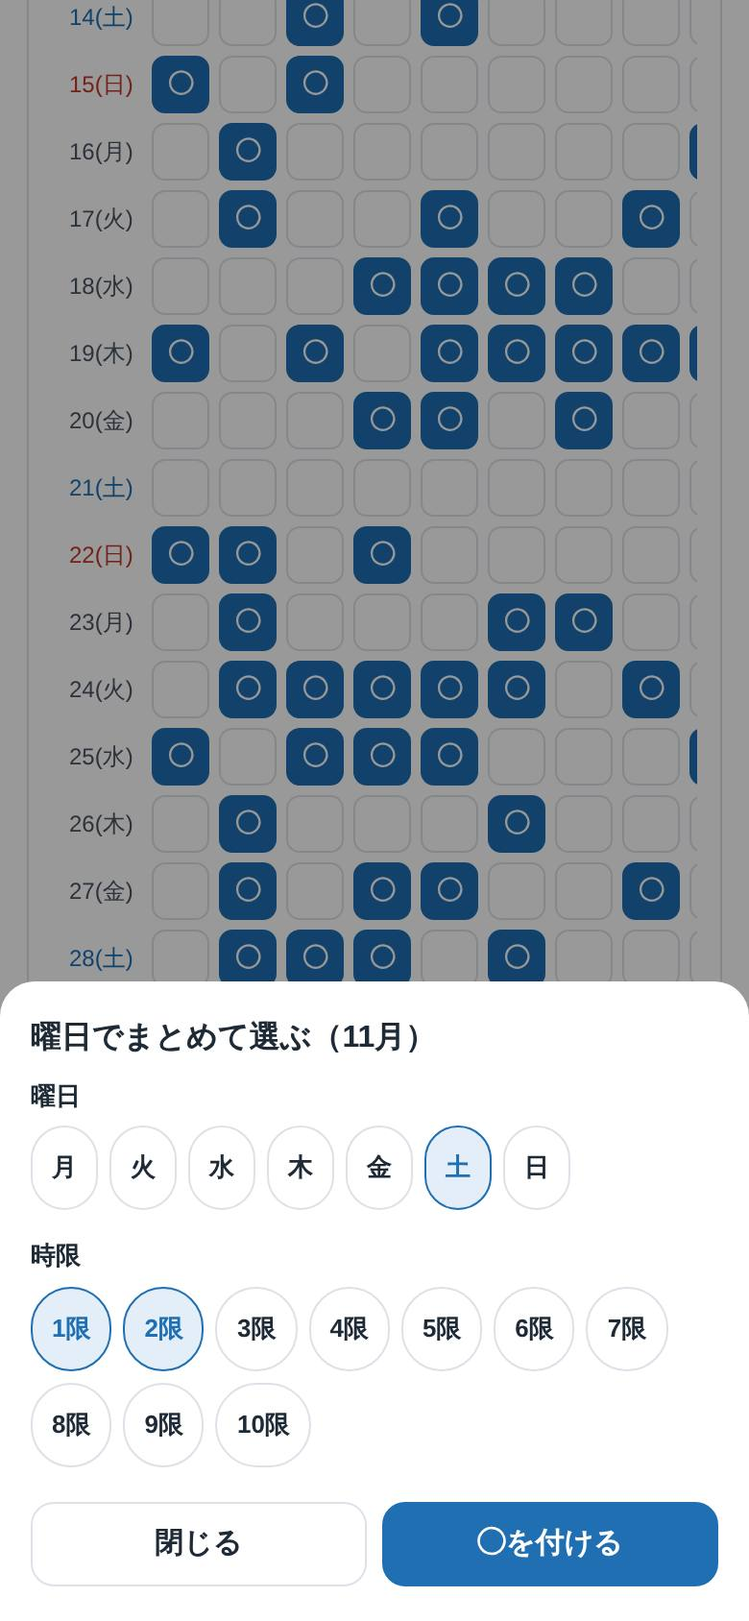
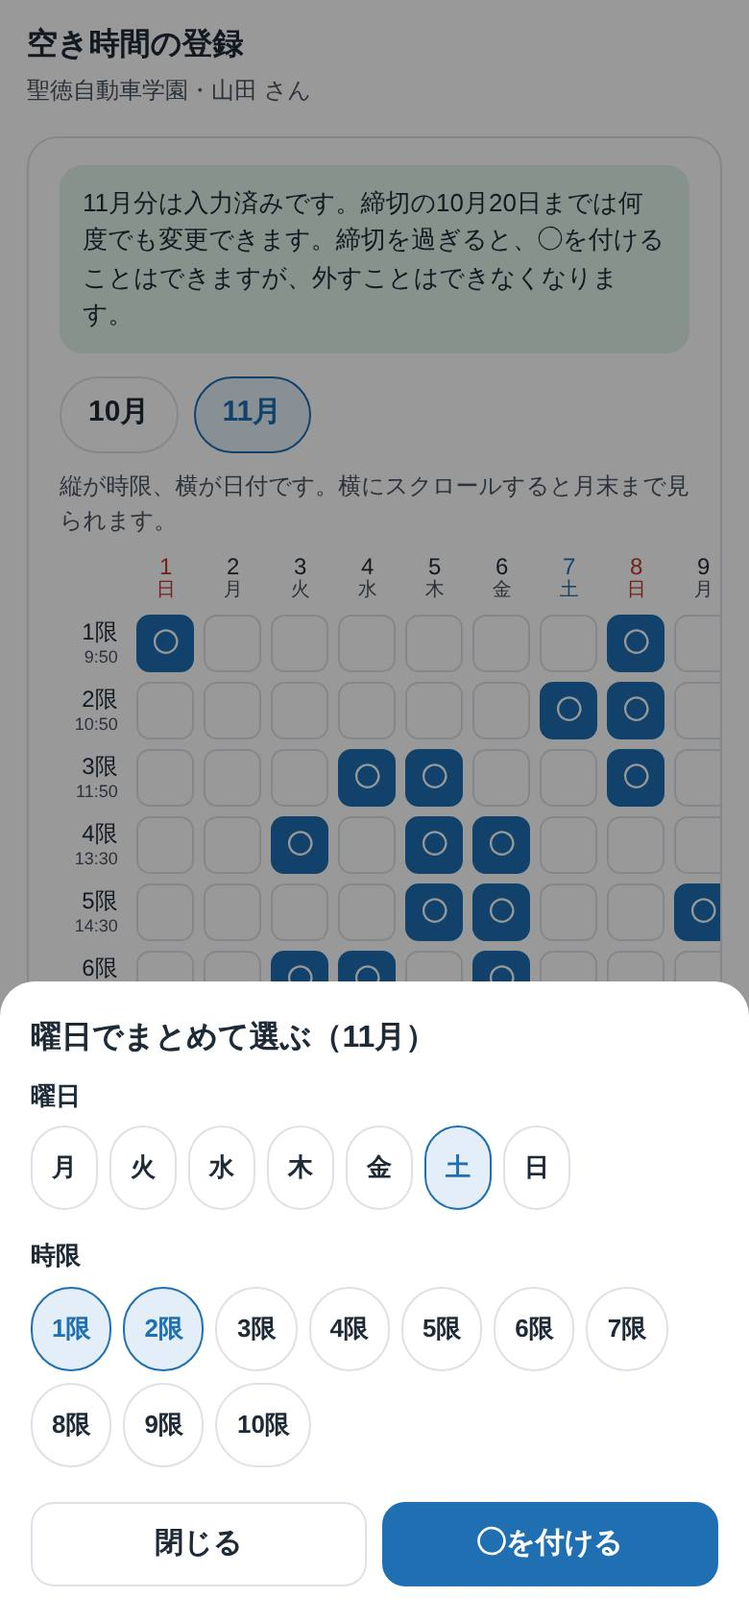
教習生の空き時間の表を縦=時限・横=日付に変更（横スクロール、時限列を固定）、使い方を撮り直し
Claude-Session: https://claude.ai/code/session_01TFEssVs3Y3zAmrgZUn2J4X

diff --git a/guide-student.html b/guide-student.html
@@ -49,5 +49,5 @@ footer{margin-top:28px;font-size:13px;color:var(--muted)}
 @media print{body{background:#fff}.phone{box-shadow:none}section.step{break-inside:avoid-page}nav.toc{display:none}}
 </style>
 <div class="wrap"><p style="margin:0 0 12px"><a href="javascript:history.back()" style="color:var(--blue);font-weight:700;text-decoration:none">← 前の画面に戻る</a></p><header class="cover"><div class="eyebrow">聖徳自動車学園　空き時間の登録</div><h1>スマホで空き時間を登録する方法</h1><p class="lead">これまで紙で提出していた「予約を入れてよい時間帯」を、スマホで登録します。予約が決まるとスマホに通知が届きます。ログインはいりません。学園で受け取ったQRコードを読み取るだけで、あなた専用の画面が開きます。</p><nav class="toc" aria-label="目次"><a href="#s1">最初にやること</a><a href="#s2">通知をオンにする</a><a href="#s3">空き時間を登録する</a><a href="#s4">予約を確認する</a><a href="#s5">予約をキャンセルしたい時</a><a href="#s6">検定の日</a><a href="#faq">困った時</a></nav></header>
-<section class="step" id="s1"><h2><span class="no">1</span>最初にやること</h2><p>QRコードをスマホのカメラで読み取ると、あなたの画面が開きます。最初に「ホーム画面に追加」をしておくと、次からはアイコンを押すだけで開けます。</p><div class="fig"><div class="phone"><img src="guide/s_install.jpg" alt="画面の例（ホーム画面に追加する手順、あとで）"><div class="mk" style="left:3.3%;top:73.74%;width:93.4%;height:12.74%"><b>1</b></div><div class="mk" style="left:3.3%;top:92.19%;width:93.4%;height:6.07%"><b>2</b></div></div><ol class="notes"><li><b>1</b><div><strong>ホーム画面に追加する手順</strong><span>iPhoneは、Safariの画面下の共有ボタン →「ホーム画面に追加」→「追加」の順に押します。Androidは「ホーム画面に追加する」ボタンが出るので、それを押します。</span></div></li><li><b>2</b><div><strong>あとで</strong><span>あとから追加する時は、画面の下の「設定」にある「ホーム画面に追加」を押すと、この案内がもう一度出ます。</span></div></li></ol></div><div class="tip"><b>QRコードは自分だけのものです</b>QRコードを読み取ると、あなたの画面が開きます。他の人に見せたり、写真を送ったりしないでください。</div></section><section class="step" id="s2"><h2><span class="no">2</span>通知をオンにする</h2><p>予約が決まった時や変更があった時に、スマホに通知が届くようにします。画面の下の「設定」を開いて、「通知の設定」を押してください。</p><div class="fig"><div class="phone"><img src="guide/s_set.jpg" alt="画面の例（画面の明るさ・文字の大きさ、通知・アプリ）"><div class="mk" style="left:7.1%;top:11.15%;width:85.7%;height:15.85%"><b>1</b></div><div class="mk" style="left:7.1%;top:40.65%;width:85.7%;height:25.03%"><b>2</b></div></div><ol class="notes"><li><b>1</b><div><strong>画面の明るさ・文字の大きさ</strong><span>ライト（白い背景）とダーク（黒い背景）、文字の大きさを選べます。</span></div></li><li><b>2</b><div><strong>通知・アプリ</strong><span>「通知の設定」で通知をオンにします。「ホーム画面に追加」もここからできます。</span></div></li></ol></div><div class="fig"><div class="phone"><img src="guide/s_push.jpg" alt="画面の例（iPhoneの方へ、通知を受け取る）"><div class="mk" style="left:3.3%;top:75.25%;width:93.4%;height:10.10%"><b>1</b></div><div class="mk" style="left:3.3%;top:85.97%;width:93.4%;height:6.07%"><b>2</b></div></div><ol class="notes"><li><b>1</b><div><strong>iPhoneの方へ</strong><span>iPhoneは、ホーム画面に追加したアイコンから開いた時だけ通知を受け取れます。先に「1 最初にやること」を済ませてください。</span></div></li><li><b>2</b><div><strong>通知を受け取る</strong><span>押すと「通知を許可しますか？」と聞かれるので、「許可」を選びます。</span></div></li></ol></div></section><section class="step" id="s3"><h2><span class="no">3</span>空き時間を登録する</h2><p>画面の下の「空き時間の登録」で、教習を受けられる時間帯に◯を付けます。タップするとすぐに保存されるので、保存ボタンはありません。</p><div class="fig"><div class="phone"><img src="guide/s_cal.jpg" alt="画面の例（締切のお知らせ、月の切り替え、マスをタップして◯を付ける、画面の切り替え）"><div class="mk" style="left:7.1%;top:9.73%;width:85.7%;height:12.41%"><b>1</b></div><div class="mk" style="left:7.1%;top:22.76%;width:85.7%;height:5.54%"><b>2</b></div><div class="mk" style="left:7.9%;top:39.83%;width:92.4%;height:4.59%"><b>3</b></div><div class="mk" style="left:-0.3%;top:92.73%;width:100.6%;height:7.17%"><b>4</b></div></div><ol class="notes"><li><b>1</b><div><strong>締切のお知らせ</strong><span>次の月の分は、毎月20日が入力の締切です。締切までは何度でも変更できます。</span></div></li><li><b>2</b><div><strong>月の切り替え</strong><span>今月と来月を切り替えます。</span></div></li><li><b>3</b><div><strong>マスをタップして◯を付ける</strong><span>横が時限（1〜10限）、縦が日付です。空いている時間帯をタップすると◯が付き、もう一度タップすると外れます。</span></div></li><li><b>4</b><div><strong>画面の切り替え</strong><span>画面の下のタブで、「空き時間の登録」「教習の進み具合」「設定」を切り替えます。いつも表示されています。</span></div></li></ol></div><div class="fig"><div class="phone part"><img src="guide/s_cal2.jpg" alt="画面の例（色の見方、今月と同じにする、曜日でまとめて選ぶ）"><div class="mk" style="left:7.1%;top:71.60%;width:85.7%;height:10.40%"><b>1</b></div><div class="mk" style="left:7.1%;top:83.20%;width:42.6%;height:14.20%"><b>2</b></div><div class="mk" style="left:50.2%;top:83.20%;width:42.6%;height:14.20%"><b>3</b></div></div><ol class="notes"><li><b>1</b><div><strong>色の見方</strong><span>青い◯は空いている時間、オレンジの「予」は予約が入った時間です。</span></div></li><li><b>2</b><div><strong>今月と同じにする</strong><span>今月の◯の付け方（曜日ごと）を、来月にそのまま写します。</span></div></li><li><b>3</b><div><strong>曜日でまとめて選ぶ</strong><span>「毎週土曜の1・2限」のように、まとめて◯を付けられます。</span></div></li></ol></div><div class="fig"><div class="phone"><img src="guide/s_bulk.jpg" alt="画面の例（曜日を選ぶ、時限を選ぶ、◯を付ける）"><div class="mk" style="left:3.3%;top:69.03%;width:93.4%;height:6.49%"><b>1</b></div><div class="mk" style="left:3.3%;top:78.92%;width:93.4%;height:12.41%"><b>2</b></div><div class="mk" style="left:50.2%;top:92.19%;width:46.5%;height:6.07%"><b>3</b></div></div><ol class="notes"><li><b>1</b><div><strong>曜日を選ぶ</strong><span>◯を付けたい曜日を選びます。いくつでも選べます。</span></div></li><li><b>2</b><div><strong>時限を選ぶ</strong><span>◯を付けたい時限を選びます。</span></div></li><li><b>3</b><div><strong>◯を付ける</strong><span>選んだ曜日と時限のマスに、まとめて◯が付きます。</span></div></li></ol></div><div class="tip warn"><b>締切（20日）を過ぎたら</b>◯を付けることはできますが、外すことはできません（指導員が予約を組んでいる途中のためです）。都合が悪くなった時は、学園に電話してください。電話番号：<span class="tel">058-387-4171</span></div></section><section class="step" id="s4"><h2><span class="no">4</span>予約を確認する</h2><p>指導員が予約を決めると通知が届きます。画面の下の「教習の進み具合」で内容を確認してください。</p><div class="fig"><div class="phone"><img src="guide/s_book.jpg" alt="画面の例（進み具合、これからの予約、確認しました）"><div class="mk" style="left:7.1%;top:9.73%;width:85.7%;height:14.60%"><b>1</b></div><div class="mk" style="left:7.1%;top:28.39%;width:85.7%;height:33.26%"><b>2</b></div><div class="mk" style="left:7.1%;top:62.28%;width:85.7%;height:6.07%"><b>3</b></div></div><ol class="notes"><li><b>1</b><div><strong>進み具合</strong><span>今の段階で受けた時限数と、最低教習時限（第1段階12時限、第2段階19時限）までのあと何時限かが分かります。</span></div></li><li><b>2</b><div><strong>これからの予約</strong><span>日付・時限・時間と、何時限目の教習かが出ます。</span></div></li><li><b>3</b><div><strong>確認しました</strong><span>予約を見たら必ず押してください。押さないと、指導員から確認の連絡が来ることがあります。</span></div></li></ol></div><div class="tip"><b>正式な予定はこの画面です</b>通知はお知らせです。予定はこの画面の表示を見てください。</div></section><section class="step" id="s5"><h2><span class="no">5</span>予約をキャンセルしたい時</h2><p>「空き時間の登録」のカレンダーで、予約が入っているマス（オレンジの「予」）を押します。</p><div class="fig"><div class="phone"><img src="guide/s_locked.jpg" alt="画面の例（予約が入っているマス）"><div class="mk" style="left:28.5%;top:28.69%;width:9.3%;height:4.35%"><b>1</b></div></div><ol class="notes"><li><b>1</b><div><strong>予約が入っているマス</strong><span>予約済みのマスは、自分では外せません。押すと次の画面が出ます。</span></div></li></ol></div><div class="fig"><div class="phone"><img src="guide/s_cancel.jpg" alt="画面の例（キャンセル希望を送る、学園に電話する）"><div class="mk" style="left:3.3%;top:79.81%;width:93.4%;height:6.07%"><b>1</b></div><div class="mk" style="left:3.3%;top:86.03%;width:93.4%;height:6.01%"><b>2</b></div></div><ol class="notes"><li><b>1</b><div><strong>キャンセル希望を送る</strong><span>指導員にキャンセルの希望が届きます。指導員が承認すると、通知でお知らせします。承認されるまでは予約のままです。</span></div></li><li><b>2</b><div><strong>学園に電話する</strong><span>急ぎの時は電話してください。電話番号：<span class="tel">058-387-4171</span></span></div></li></ol></div></section><section class="step" id="s6"><h2><span class="no">6</span>検定の日</h2><p>みきわめに合格すると、「教習の進み具合」に検定日が出ます。検定日の当日は、朝に通知が届き、画面にもお知らせが出ます。</p><div class="fig"><div class="phone part"><img src="guide/s_kentei.jpg" alt="画面の例（検定日のお知らせ）"><div class="mk" style="left:2.8%;top:20.36%;width:94.4%;height:28.68%"><b>1</b></div></div><ol class="notes"><li><b>1</b><div><strong>検定日のお知らせ</strong><span>これまでに教わった事をよく思い出して、頑張ってください。</span></div></li></ol></div></section><section class="step" id="faq"><h2><span class="no">？</span>困った時は</h2><div class="faq"><div><strong>画面が開かない・読み込み中のまま</strong><span>LINEなどのアプリの中で開くと動かないことがあります。Safari（iPhone）か Chrome（Android）で開き直してください。それでもだめな時は、スマホのOSとブラウザを最新にしてください。</span></div><div><strong>QRコードをなくした・スマホを替えた</strong><span>担当の指導員に伝えてください。新しいQRコードを出してもらえます。登録した空き時間や予約はそのまま残ります。</span></div><div><strong>通知が来ない</strong><span>画面の下の「設定」→「通知の設定」で「通知を受け取る」を押したか確認してください。iPhoneはホーム画面のアイコンから開いて設定する必要があります。</span></div><div><strong>◯を外したいのに外せない</strong><span>締切（毎月20日）を過ぎると外せません。学園に電話してください。<span class="tel">058-387-4171</span></span></div></div></section>
+<section class="step" id="s1"><h2><span class="no">1</span>最初にやること</h2><p>QRコードをスマホのカメラで読み取ると、あなたの画面が開きます。最初に「ホーム画面に追加」をしておくと、次からはアイコンを押すだけで開けます。</p><div class="fig"><div class="phone"><img src="guide/s_install.jpg" alt="画面の例（ホーム画面に追加する手順、あとで）"><div class="mk" style="left:3.3%;top:73.74%;width:93.4%;height:12.74%"><b>1</b></div><div class="mk" style="left:3.3%;top:92.19%;width:93.4%;height:6.07%"><b>2</b></div></div><ol class="notes"><li><b>1</b><div><strong>ホーム画面に追加する手順</strong><span>iPhoneは、Safariの画面下の共有ボタン →「ホーム画面に追加」→「追加」の順に押します。Androidは「ホーム画面に追加する」ボタンが出るので、それを押します。</span></div></li><li><b>2</b><div><strong>あとで</strong><span>あとから追加する時は、画面の下の「設定」にある「ホーム画面に追加」を押すと、この案内がもう一度出ます。</span></div></li></ol></div><div class="tip"><b>QRコードは自分だけのものです</b>QRコードを読み取ると、あなたの画面が開きます。他の人に見せたり、写真を送ったりしないでください。</div></section><section class="step" id="s2"><h2><span class="no">2</span>通知をオンにする</h2><p>予約が決まった時や変更があった時に、スマホに通知が届くようにします。画面の下の「設定」を開いて、「通知の設定」を押してください。</p><div class="fig"><div class="phone"><img src="guide/s_set.jpg" alt="画面の例（画面の明るさ・文字の大きさ、通知・アプリ）"><div class="mk" style="left:7.1%;top:11.15%;width:85.7%;height:15.85%"><b>1</b></div><div class="mk" style="left:7.1%;top:40.65%;width:85.7%;height:25.03%"><b>2</b></div></div><ol class="notes"><li><b>1</b><div><strong>画面の明るさ・文字の大きさ</strong><span>ライト（白い背景）とダーク（黒い背景）、文字の大きさを選べます。</span></div></li><li><b>2</b><div><strong>通知・アプリ</strong><span>「通知の設定」で通知をオンにします。「ホーム画面に追加」もここからできます。</span></div></li></ol></div><div class="fig"><div class="phone"><img src="guide/s_push.jpg" alt="画面の例（iPhoneの方へ、通知を受け取る）"><div class="mk" style="left:3.3%;top:75.25%;width:93.4%;height:10.10%"><b>1</b></div><div class="mk" style="left:3.3%;top:85.97%;width:93.4%;height:6.07%"><b>2</b></div></div><ol class="notes"><li><b>1</b><div><strong>iPhoneの方へ</strong><span>iPhoneは、ホーム画面に追加したアイコンから開いた時だけ通知を受け取れます。先に「1 最初にやること」を済ませてください。</span></div></li><li><b>2</b><div><strong>通知を受け取る</strong><span>押すと「通知を許可しますか？」と聞かれるので、「許可」を選びます。</span></div></li></ol></div></section><section class="step" id="s3"><h2><span class="no">3</span>空き時間を登録する</h2><p>画面の下の「空き時間の登録」で、教習を受けられる時間帯に◯を付けます。タップするとすぐに保存されるので、保存ボタンはありません。</p><div class="fig"><div class="phone"><img src="guide/s_cal.jpg" alt="画面の例（締切のお知らせ、月の切り替え、マスをタップして◯を付ける、画面の切り替え）"><div class="mk" style="left:7.1%;top:9.73%;width:85.7%;height:12.41%"><b>1</b></div><div class="mk" style="left:7.1%;top:22.76%;width:85.7%;height:5.54%"><b>2</b></div><div class="mk" style="left:7.9%;top:45.67%;width:92.4%;height:4.59%"><b>3</b></div><div class="mk" style="left:-0.3%;top:92.73%;width:100.6%;height:7.17%"><b>4</b></div></div><ol class="notes"><li><b>1</b><div><strong>締切のお知らせ</strong><span>次の月の分は、毎月20日が入力の締切です。締切までは何度でも変更できます。</span></div></li><li><b>2</b><div><strong>月の切り替え</strong><span>今月と来月を切り替えます。</span></div></li><li><b>3</b><div><strong>マスをタップして◯を付ける</strong><span>縦が時限（1〜10限）、横が日付です。横にスクロールすると月末まで見られます。空いている時間帯をタップすると◯が付き、もう一度タップすると外れます。</span></div></li><li><b>4</b><div><strong>画面の切り替え</strong><span>画面の下のタブで、「空き時間の登録」「教習の進み具合」「設定」を切り替えます。いつも表示されています。</span></div></li></ol></div><div class="fig"><div class="phone part"><img src="guide/s_cal2.jpg" alt="画面の例（色の見方、今月と同じにする、曜日でまとめて選ぶ）"><div class="mk" style="left:7.1%;top:71.60%;width:85.7%;height:10.40%"><b>1</b></div><div class="mk" style="left:7.1%;top:83.20%;width:42.6%;height:14.20%"><b>2</b></div><div class="mk" style="left:50.2%;top:83.20%;width:42.6%;height:14.20%"><b>3</b></div></div><ol class="notes"><li><b>1</b><div><strong>色の見方</strong><span>青い◯は空いている時間、オレンジの「予」は予約が入った時間です。</span></div></li><li><b>2</b><div><strong>今月と同じにする</strong><span>今月の◯の付け方（曜日ごと）を、来月にそのまま写します。</span></div></li><li><b>3</b><div><strong>曜日でまとめて選ぶ</strong><span>「毎週土曜の1・2限」のように、まとめて◯を付けられます。</span></div></li></ol></div><div class="fig"><div class="phone"><img src="guide/s_bulk.jpg" alt="画面の例（曜日を選ぶ、時限を選ぶ、◯を付ける）"><div class="mk" style="left:3.3%;top:69.03%;width:93.4%;height:6.49%"><b>1</b></div><div class="mk" style="left:3.3%;top:78.92%;width:93.4%;height:12.41%"><b>2</b></div><div class="mk" style="left:50.2%;top:92.19%;width:46.5%;height:6.07%"><b>3</b></div></div><ol class="notes"><li><b>1</b><div><strong>曜日を選ぶ</strong><span>◯を付けたい曜日を選びます。いくつでも選べます。</span></div></li><li><b>2</b><div><strong>時限を選ぶ</strong><span>◯を付けたい時限を選びます。</span></div></li><li><b>3</b><div><strong>◯を付ける</strong><span>選んだ曜日と時限のマスに、まとめて◯が付きます。</span></div></li></ol></div><div class="tip warn"><b>締切（20日）を過ぎたら</b>◯を付けることはできますが、外すことはできません（指導員が予約を組んでいる途中のためです）。都合が悪くなった時は、学園に電話してください。電話番号：<span class="tel">058-387-4171</span></div></section><section class="step" id="s4"><h2><span class="no">4</span>予約を確認する</h2><p>指導員が予約を決めると通知が届きます。画面の下の「教習の進み具合」で内容を確認してください。</p><div class="fig"><div class="phone"><img src="guide/s_book.jpg" alt="画面の例（進み具合、これからの予約、確認しました）"><div class="mk" style="left:7.1%;top:9.73%;width:85.7%;height:14.60%"><b>1</b></div><div class="mk" style="left:7.1%;top:28.39%;width:85.7%;height:33.26%"><b>2</b></div><div class="mk" style="left:7.1%;top:62.28%;width:85.7%;height:6.07%"><b>3</b></div></div><ol class="notes"><li><b>1</b><div><strong>進み具合</strong><span>今の段階で受けた時限数と、最低教習時限（第1段階12時限、第2段階19時限）までのあと何時限かが分かります。</span></div></li><li><b>2</b><div><strong>これからの予約</strong><span>日付・時限・時間と、何時限目の教習かが出ます。</span></div></li><li><b>3</b><div><strong>確認しました</strong><span>予約を見たら必ず押してください。押さないと、指導員から確認の連絡が来ることがあります。</span></div></li></ol></div><div class="tip"><b>正式な予定はこの画面です</b>通知はお知らせです。予定はこの画面の表示を見てください。</div></section><section class="step" id="s5"><h2><span class="no">5</span>予約をキャンセルしたい時</h2><p>「空き時間の登録」のカレンダーで、予約が入っているマス（オレンジの「予」）を押します。</p><div class="fig"><div class="phone"><img src="guide/s_locked.jpg" alt="画面の例（予約が入っているマス）"><div class="mk" style="left:45.4%;top:27.42%;width:9.3%;height:4.35%"><b>1</b></div></div><ol class="notes"><li><b>1</b><div><strong>予約が入っているマス</strong><span>予約済みのマスは、自分では外せません。押すと次の画面が出ます。</span></div></li></ol></div><div class="fig"><div class="phone"><img src="guide/s_cancel.jpg" alt="画面の例（キャンセル希望を送る、学園に電話する）"><div class="mk" style="left:3.3%;top:79.81%;width:93.4%;height:6.07%"><b>1</b></div><div class="mk" style="left:3.3%;top:86.03%;width:93.4%;height:6.01%"><b>2</b></div></div><ol class="notes"><li><b>1</b><div><strong>キャンセル希望を送る</strong><span>指導員にキャンセルの希望が届きます。指導員が承認すると、通知でお知らせします。承認されるまでは予約のままです。</span></div></li><li><b>2</b><div><strong>学園に電話する</strong><span>急ぎの時は電話してください。電話番号：<span class="tel">058-387-4171</span></span></div></li></ol></div></section><section class="step" id="s6"><h2><span class="no">6</span>検定の日</h2><p>みきわめに合格すると、「教習の進み具合」に検定日が出ます。検定日の当日は、朝に通知が届き、画面にもお知らせが出ます。</p><div class="fig"><div class="phone part"><img src="guide/s_kentei.jpg" alt="画面の例（検定日のお知らせ）"><div class="mk" style="left:2.8%;top:20.36%;width:94.4%;height:28.68%"><b>1</b></div></div><ol class="notes"><li><b>1</b><div><strong>検定日のお知らせ</strong><span>これまでに教わった事をよく思い出して、頑張ってください。</span></div></li></ol></div></section><section class="step" id="faq"><h2><span class="no">？</span>困った時は</h2><div class="faq"><div><strong>画面が開かない・読み込み中のまま</strong><span>LINEなどのアプリの中で開くと動かないことがあります。Safari（iPhone）か Chrome（Android）で開き直してください。それでもだめな時は、スマホのOSとブラウザを最新にしてください。</span></div><div><strong>QRコードをなくした・スマホを替えた</strong><span>担当の指導員に伝えてください。新しいQRコードを出してもらえます。登録した空き時間や予約はそのまま残ります。</span></div><div><strong>通知が来ない</strong><span>画面の下の「設定」→「通知の設定」で「通知を受け取る」を押したか確認してください。iPhoneはホーム画面のアイコンから開いて設定する必要があります。</span></div><div><strong>◯を外したいのに外せない</strong><span>締切（毎月20日）を過ぎると外せません。学園に電話してください。<span class="tel">058-387-4171</span></span></div></div></section>
 <footer>画面の名前や日付は説明用の見本です。分からないことは担当の指導員か、学園の事務所に聞いてください。</footer></div>

diff --git a/js/student.js b/js/student.js
@@ -110,14 +110,17 @@ function renderCal() {
     h += `<div class="banner info">${lockedNote()}タップするとすぐ保存されます。</div>`;
   }
   h += `<div class="months">${MONTHS.map((x, i) => `<button class="chip" aria-pressed="${S.mi === i}" data-act="month" data-v="${i}">${x.m}月</button>`).join("")}</div>`;
-  h += `<div class="gridwrap"><table class="cal"><thead><tr><th></th>`;
-  for (let p = 1; p <= 10; p++) h += `<th scope="col">${p}</th>`;
-  h += `</tr></thead><tbody>`;
+  // 縦が時限、横が日付（日付が多いので横にスクロール。時限の列は左に固定）
   const start = S.mi === 0 ? now.getDate() : 1;
-  for (let d = start; d <= daysIn(y, m); d++) {
-    const ds = dateStr(new Date(y, m - 1, d)); const w = parseDate(ds).getDay();
-    h += `<tr><th scope="row" class="day ${w === 6 ? "sat" : w === 0 ? "sun" : ""}">${d}(${WD[w]})</th>`;
-    for (let p = 1; p <= 10; p++) {
+  const dl = []; for (let d = start; d <= daysIn(y, m); d++) dl.push(d);
+  h += `<div class="calhint">縦が時限、横が日付です。横にスクロールすると月末まで見られます。</div>`;
+  h += `<div class="gridwrap calwrap"><table class="cal calt"><thead><tr><th class="pl"></th>`;
+  dl.forEach(d => { const w = new Date(y, m - 1, d).getDay(); h += `<th scope="col" class="day ${w === 6 ? "sat" : w === 0 ? "sun" : ""}">${d}<small>${WD[w]}</small></th>`; });
+  h += `</tr></thead><tbody>`;
+  for (let p = 1; p <= 10; p++) {
+    h += `<tr><th scope="row" class="pl">${p}限<small>${P[p][0]}</small></th>`;
+    dl.forEach(d => {
+      const ds = dateStr(new Date(y, m - 1, d));
       const b = confirmedAt(ds, p);
       if (b) {
         h += `<td><button class="cell ${b.cancelRequested ? "req" : "booked"}" data-act="locked" data-id="${b.id}" aria-label="${label(ds, p)} 予約済み">予</button></td>`;
@@ -125,7 +128,7 @@ function renderCal() {
         const on = set.has(slotKey(d, p));
         h += `<td><button class="cell ${on ? "on" : ""}" data-act="toggle" data-d="${d}" data-p="${p}" aria-pressed="${on}" aria-label="${label(ds, p)}">${on ? "◯" : ""}</button></td>`;
       }
-    }
+    });
     h += `</tr>`;
   }
   h += `</tbody></table></div>

diff --git a/css/app.css b/css/app.css
@@ -267,3 +267,12 @@ body.pc #setWrap{max-width:760px;padding:20px 28px 40px}
 .chips.wrapchips{flex-wrap:wrap;overflow:visible}
 .tel{font-variant-numeric:tabular-nums;user-select:all}
 .pushst{font-size:13px;margin:0 0 10px;display:flex;gap:6px;align-items:baseline}
+/* 教習生の空き時間：縦が時限、横が日付。時限の列は左に固定して、日付は横にスクロール */
+.calwrap{margin:0 -16px;padding:0 16px 4px}
+.calt th.pl{position:sticky;left:-16px;z-index:2;background:var(--surface);text-align:right;padding:0 6px 0 2px;font-size:12px;line-height:1.15;white-space:nowrap;color:var(--ink)}
+.calt th.pl small{display:block;font-size:9px;color:var(--muted);font-weight:400}
+.calt thead th.day{text-align:center;padding:0 0 2px;font-size:12px;line-height:1.15;color:var(--ink)}
+.calt thead th.day small{display:block;font-size:10px;color:var(--muted)}
+.calt thead th.sat,.calt thead th.sat small{color:var(--blue)}
+.calt thead th.sun,.calt thead th.sun small{color:#C0392B}
+.calhint{font-size:12px;color:var(--muted);margin:-2px 0 6px}
